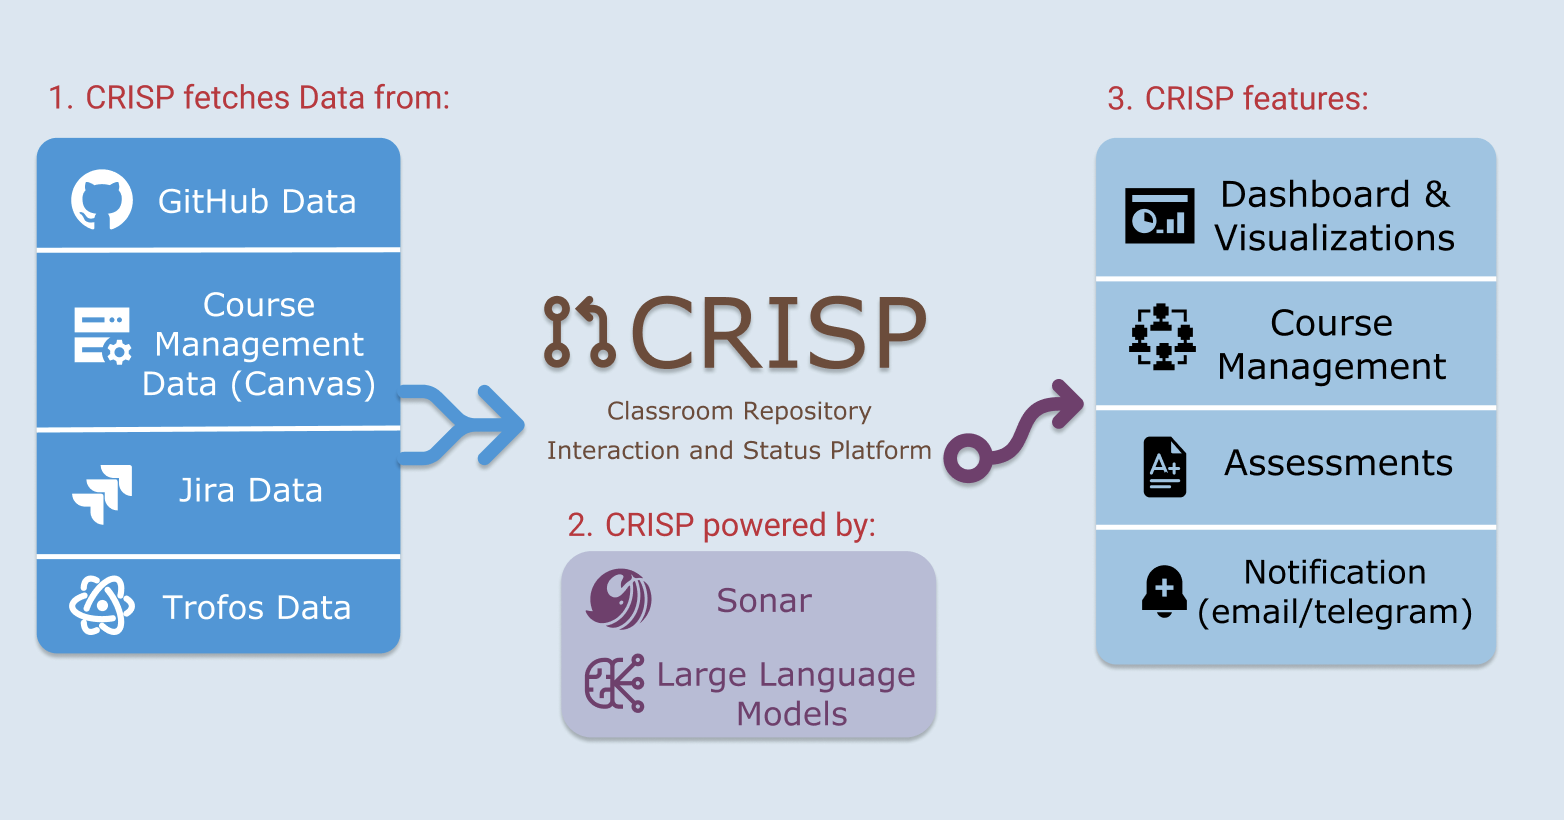
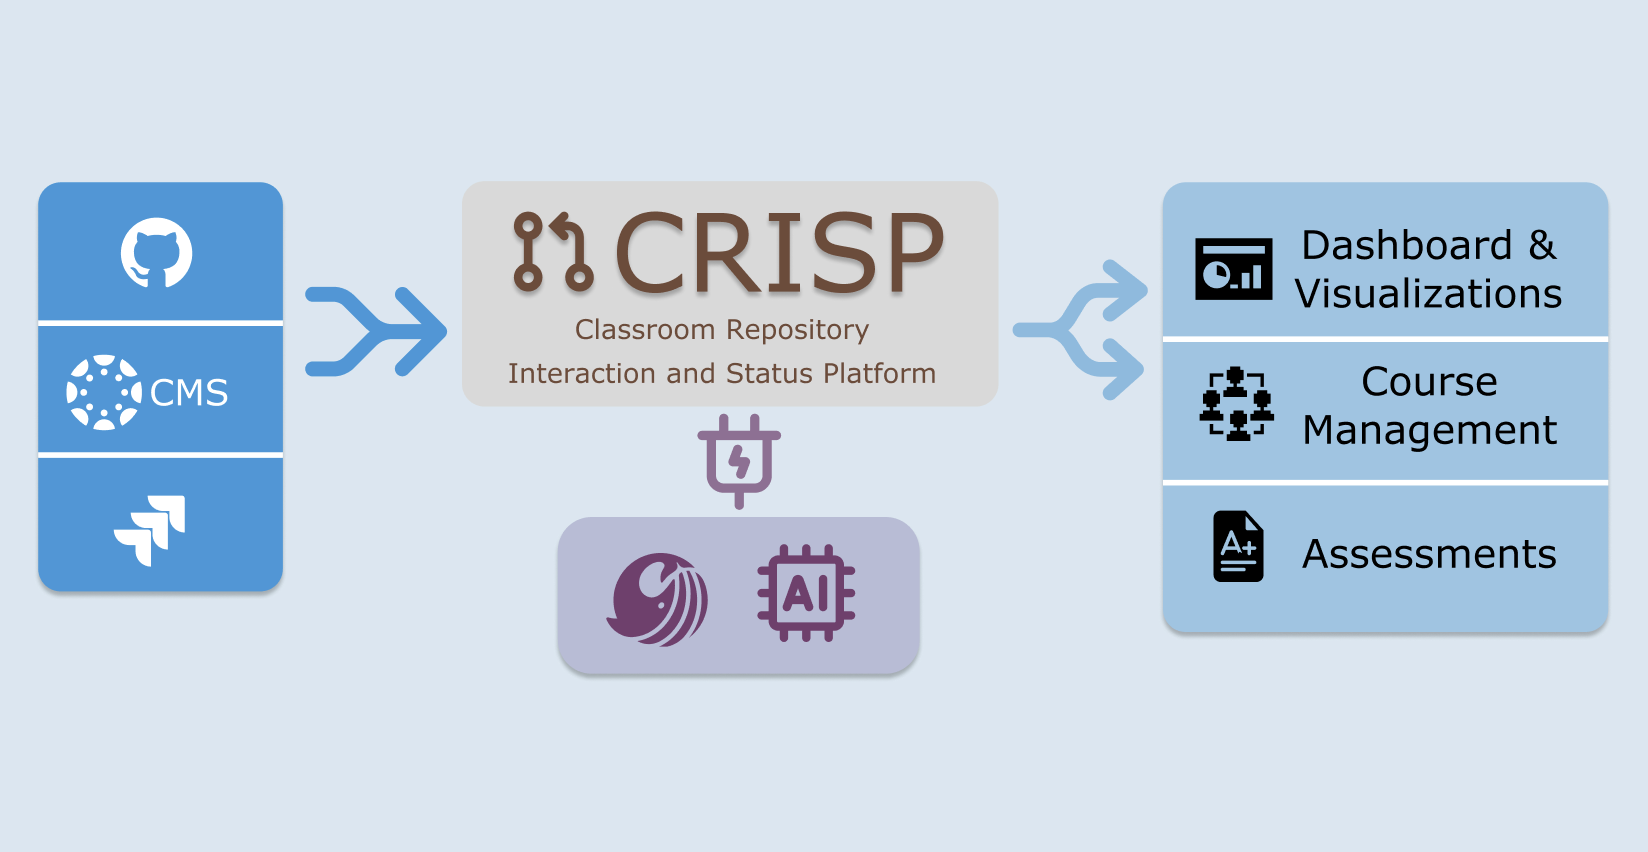
fix: change diagrams

Changed region(s): [[0.0, 0.0915, 0.9821, 0.9146]]

diff --git a/multi-git-dashboard/src/components/home/FeatureCard.tsx b/multi-git-dashboard/src/components/home/FeatureCard.tsx
@@ -30,7 +30,7 @@ const data = [
       'Transform data into visual dashboards that reveal team dynamics, knowledge transfer patterns, and bottlenecks in real-time.',
   },
   {
-    images: ['/ca-1.jpg', '/ca-2.jpg'],
+    images: ['/ca-1.png', '/ca-2.png', '/ca-3.png'],
     title: 'AI Diagnosed',
     description:
       'Pinpoint critical quality issues with SonarCube diagnostics that combine test coverage metrics, static analysis, and technical debt indicators into actionable insights.',

diff --git a/multi-git-dashboard/src/components/home/Hero.tsx b/multi-git-dashboard/src/components/home/Hero.tsx
@@ -21,7 +21,7 @@ const Hero = () => {
           }}
         >
           <Image
-            src="/CRISP_diagram.png"
+            src="/crisp_diagram.png"
             alt="CRISP Platform Diagram"
             style={{
               width: '700px',
